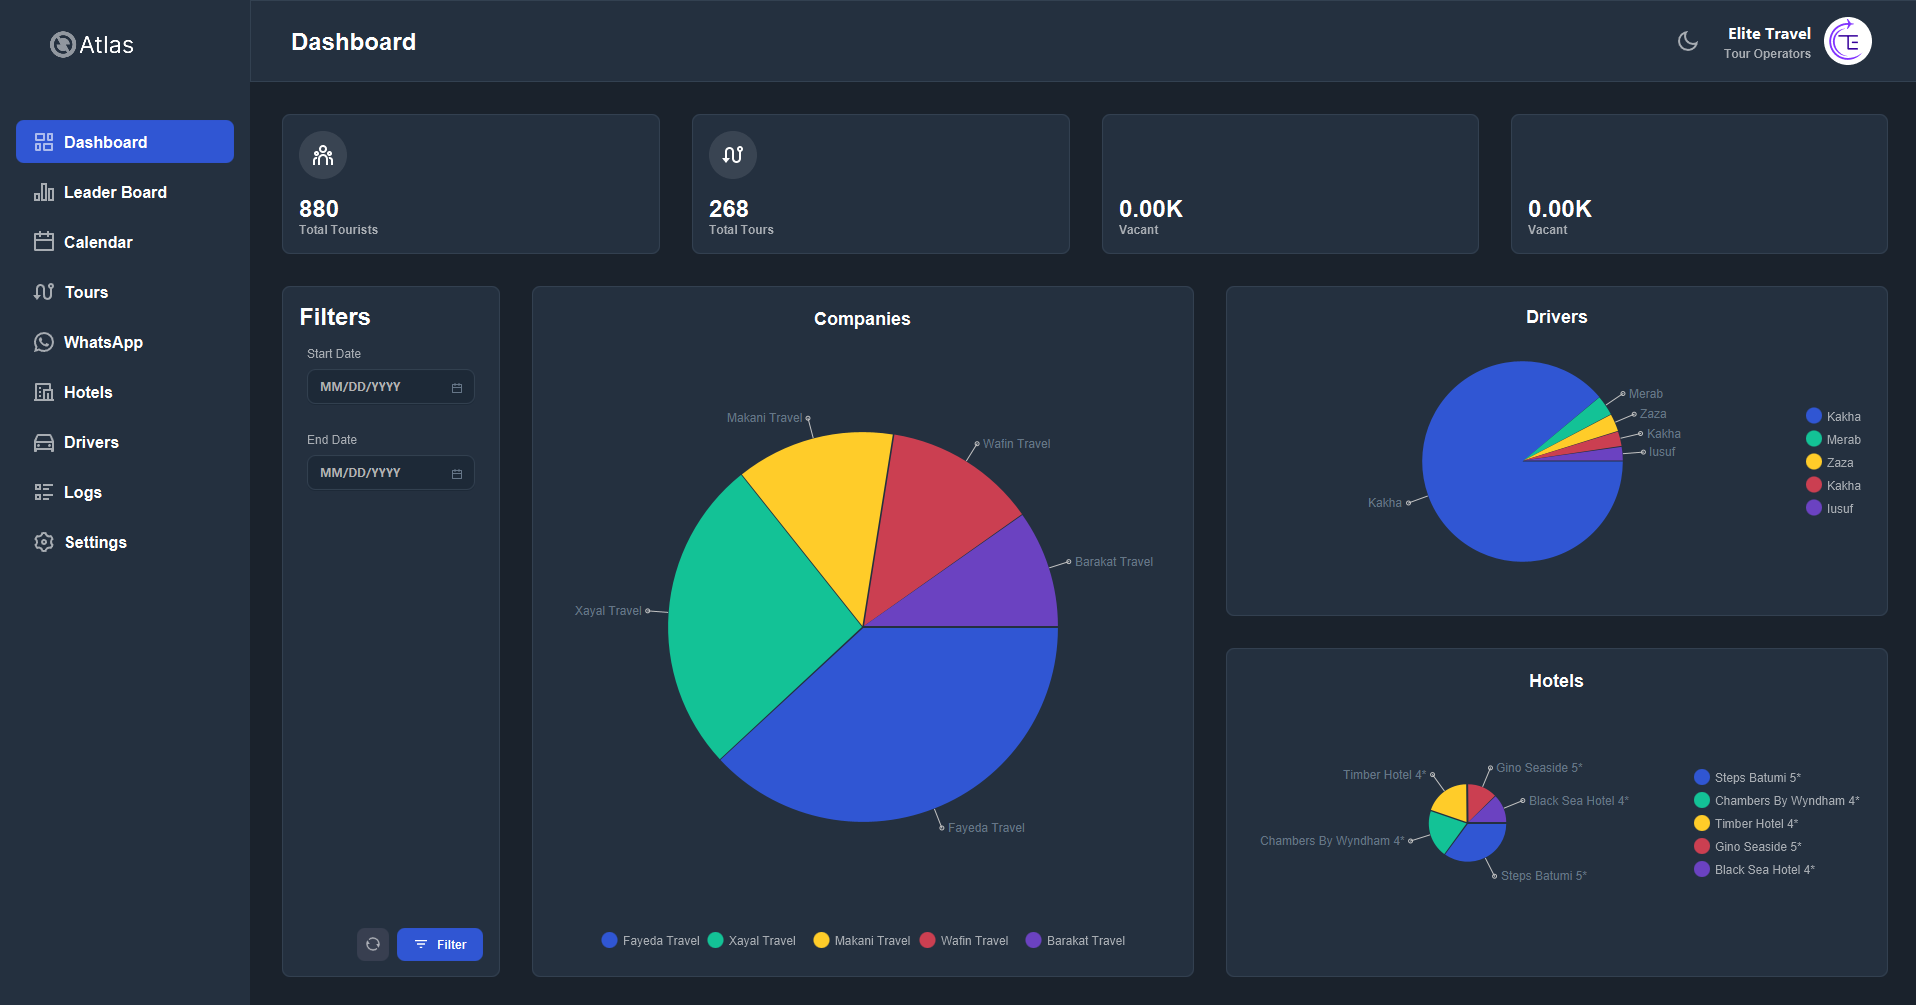
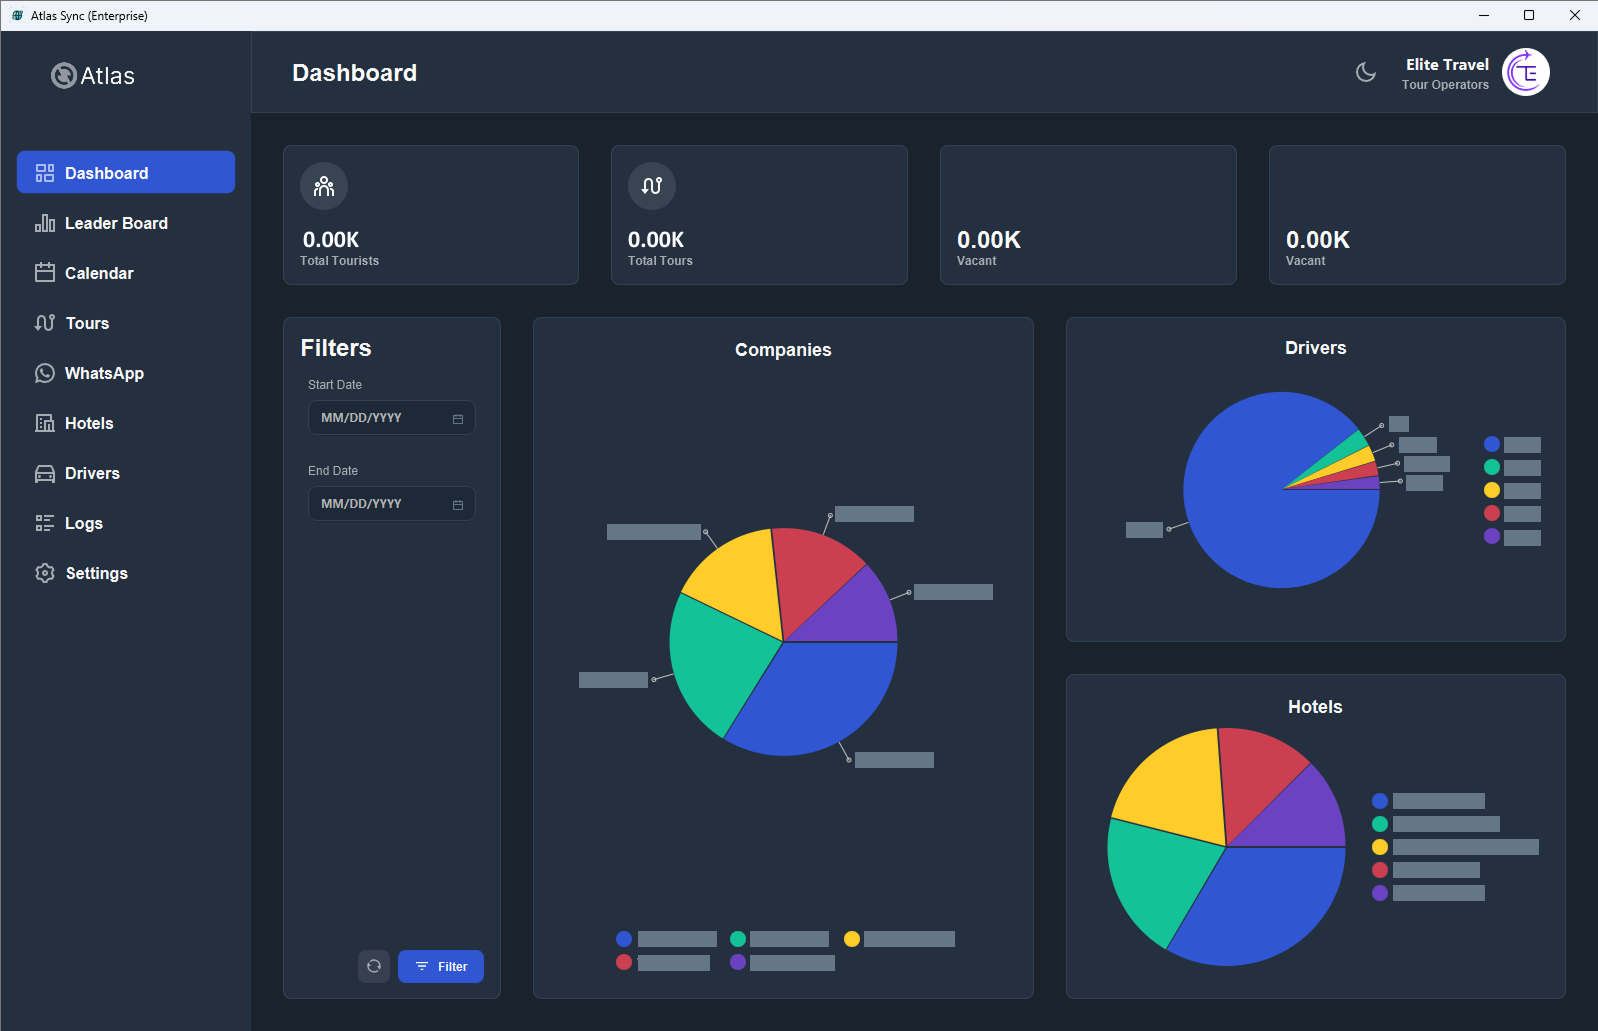
2026 updates batch

diff --git a/index.html b/index.html
@@ -538,13 +538,27 @@
           <ol class="timeline-list">
 
             <li class="timeline-item">
-              <h4 class="h4 timeline-item-title">Web Developer at Elite Travel</h4>
-              <span>2023 — 2024</span>
+              <h4 class="h4 timeline-item-title">Full Stack Engineer at SAA</h4>
+              <span>2025 — Present</span>
               <p class="timeline-text">
+                Internal Blog & Content Management Platform and landing page for Accounting Company
+              </p>
+            </li>
 
-                Web Development Lead – Elite Travel
+            <li class="timeline-item">
+              <h4 class="h4 timeline-item-title">Software Engineer at Elite Travel</h4>
+              <span>2024 — 2025</span>
+              <p class="timeline-text">
                 Developed a dynamic and user-friendly website for Elite Travel, focusing on improving user experience
                 through modern web technologies.
+              </p>
+            </li>
+            
+            <li class="timeline-item">
+              <h4 class="h4 timeline-item-title">Lead Systems Architecture Engineer (NDA)</h4>
+              <span>2023 — 2024</span>
+              <p class="timeline-text">
+                -
               </p>
             </li>
 
@@ -554,6 +568,14 @@
               <p class="timeline-text">
                 Guided a team in the prestigious Millennium Awards to design and develop a Smart House System, focusing
                 on automation, energy efficiency, and innovative technology.
+              </p>
+            </li>
+
+            <li class="timeline-item">
+              <h4 class="h4 timeline-item-title">Back End Developer at VDElivery</h4>
+              <span>2022 — 2023</span>
+              <p class="timeline-text">
+                Contributed to backend service reliability and operational workflow automation within a delivery platform environment.
               </p>
             </li>
 
@@ -610,9 +632,19 @@
           <ol class="timeline-list">
 
             <li class="timeline-item">
-              <h4 class="h4 timeline-item-title">University of Georgia</h4>
-              <span>2022 — Present</span>
+              <h4 class="h4 timeline-item-title">(Master's) Georgian Technical University</h4>
+              <span>2026 — Present</span>
               <p class="timeline-text">
+                <span><strong>Computer Engineering</strong></span>
+                -
+              </p>
+            </li>
+
+            <li class="timeline-item">
+              <h4 class="h4 timeline-item-title">(Bachelor's) University of Georgia</h4>
+              <span>2022 — 2026</span>
+              <p class="timeline-text">
+                <span><strong>Computer Engineering</strong></span>
                 Completed university courses in Java (Levels 1 and 2), C# (Levels 1 and 2), C/C++ (Levels 1 and 2), CCNA
                 (Level 1), and Algorithms and Data Structures, building a strong foundation in programming, networking,
                 and problem-solving.
@@ -863,6 +895,78 @@
           </div>
 
           <ul class="project-list">
+
+            <li class="project-item  active" data-filter-item data-category="Firmware development">
+              <a href="" target="_blank">
+
+                <figure class="project-img">
+                  <div class="project-item-icon-box">
+                    <ion-icon name="eye-outline"></ion-icon>
+                  </div>
+
+                  <img src="assets/portfolio-images/FlightController.png" alt="arrival" loading="lazy">
+                </figure>
+
+                <h3 class="project-title">Flight Controller</h3>
+
+                <p class="project-category">Firmware development</p>
+
+              </a>
+            </li>
+            
+            <li class="project-item  active" data-filter-item data-category="Software development">
+              <a href="" target="_blank">
+
+                <figure class="project-img">
+                  <div class="project-item-icon-box">
+                    <ion-icon name="eye-outline"></ion-icon>
+                  </div>
+
+                  <img src="assets/portfolio-images/ArcheStudioExodus.png" alt="arrival" loading="lazy">
+                </figure>
+
+                <h3 class="project-title">Arche Studio Exodus</h3>
+
+                <p class="project-category">Software development</p>
+
+              </a>
+            </li>
+
+            <li class="project-item  active" data-filter-item data-category="Firmware development">
+              <a href="" target="_blank">
+
+                <figure class="project-img">
+                  <div class="project-item-icon-box">
+                    <ion-icon name="eye-outline"></ion-icon>
+                  </div>
+
+                  <img src="assets/portfolio-images/Mesh.png" alt="arrival" loading="lazy">
+                </figure>
+
+                <h3 class="project-title">Mesh 2.0 - I.T.S.D</h3>
+
+                <p class="project-category">Firmware development</p>
+
+              </a>
+            </li>
+
+            <li class="project-item  active" data-filter-item data-category="Software development">
+              <a href="https://github.com/aleko-khomasuridze/TagSmith" target="_blank">
+
+                <figure class="project-img">
+                  <div class="project-item-icon-box">
+                    <ion-icon name="eye-outline"></ion-icon>
+                  </div>
+
+                  <img src="assets/portfolio-images/TagSmith.png" alt="arrival" loading="lazy">
+                </figure>
+
+                <h3 class="project-title">TagSmith</h3>
+
+                <p class="project-category">Software development</p>
+
+              </a>
+            </li>
 
             <li class="project-item  active" data-filter-item data-category="Firmware development">
               <a href="#">
